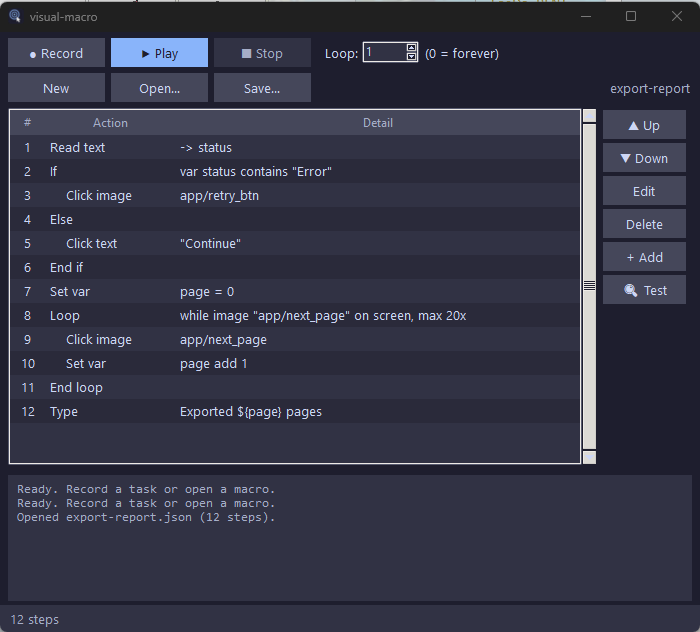
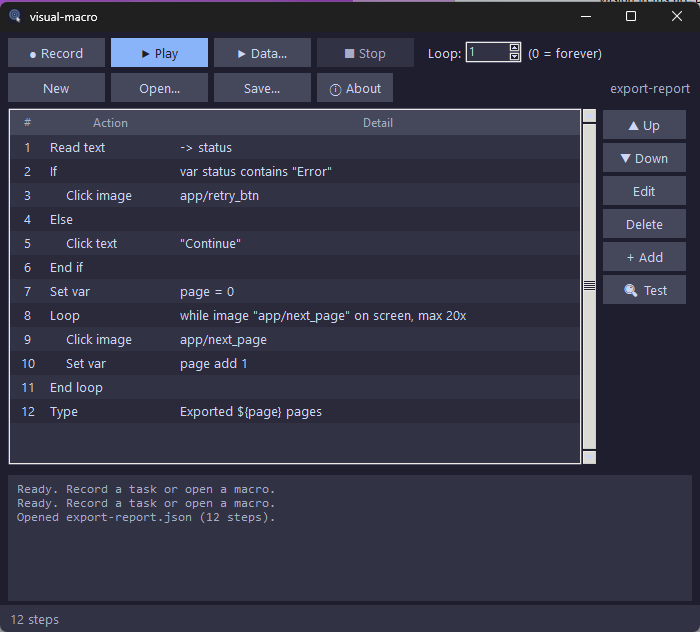
Add data-driven runs (run a macro per CSV row)
New '▶ Data…' button: pick a CSV and the macro runs once per row, with each
column seeded as a ${variable} (mail-merge style batch automation). Reuses the
existing variable substitution; vars are re-seeded fresh per row (no leakage);
F12 still aborts. engine.run() gains an initial_vars param.

Verified: headless test — 2 rows produce distinct typed output, missing column
resolves to empty; UI selftest OK; screenshot confirms the new button fits.

diff --git a/ui/app.py b/ui/app.py
@@ -272,14 +272,18 @@ class App(tk.Tk):
         self.btn_record = ttk.Button(bar, text="● Record", command=self.on_record)
         self.btn_play = ttk.Button(bar, text="▶ Play", command=self.on_play,
                                    style="Accent.TButton")
+        self.btn_data = ttk.Button(bar, text="▶ Data…", command=self.on_play_data)
         self.btn_stop = ttk.Button(bar, text="■ Stop", command=self.on_stop,
                                    state="disabled")
         self.btn_record.pack(side="left")
         self.btn_play.pack(side="left", padx=(6, 0))
+        self.btn_data.pack(side="left", padx=(6, 0))
         self.btn_stop.pack(side="left", padx=(6, 12))
         Tooltip(self.btn_record, "Do a task by hand once — it records the steps.\n"
                                  "Press F10 to stop recording.")
         Tooltip(self.btn_play, "Run the macro. Loop sets how many times.")
+        Tooltip(self.btn_data, "Run the macro once per row of a CSV.\n"
+                               "Each column becomes a ${variable} you can type.")
         Tooltip(self.btn_stop, "Stop a running macro (or press F12 anytime).")
 
         ttk.Label(bar, text="Loop:").pack(side="left")
@@ -581,6 +585,70 @@ class App(tk.Tk):
         self.btn_stop.configure(state="disabled")
         self.set_status(f"{len(self.steps)} steps")
 
+    def on_play_data(self) -> None:
+        """Run the macro once per row of a CSV; each column becomes a ${var}."""
+        if self._running or self._recording:
+            return
+        if not self.steps:
+            messagebox.showinfo("Nothing to play", "This macro has no steps yet.")
+            return
+        path = filedialog.askopenfilename(
+            title="Choose a CSV — one run per row, columns become ${variables}",
+            filetypes=[("CSV files", "*.csv"), ("All files", "*.*")])
+        if not path:
+            return
+        try:
+            import csv
+            with open(path, "r", encoding="utf-8-sig", newline="") as f:
+                rows = list(csv.DictReader(f))
+        except Exception as e:
+            messagebox.showerror("Could not read CSV", str(e))
+            return
+        if not rows:
+            messagebox.showinfo("Empty", "That CSV has no data rows.")
+            return
+        cols = ", ".join(f"${{{c}}}" for c in rows[0].keys() if c)
+        if not messagebox.askyesno(
+                "Run with data",
+                f"Run '{self.macro_name}' {len(rows)} times — once per row?\n\n"
+                f"Columns available as variables:\n{cols}\n\n"
+                "Make sure your target app is ready. F12 stops."):
+            return
+
+        try:
+            repeat = int(self.loop_var.get())
+        except ValueError:
+            repeat = 1
+        region = tuple(self.region) if self.region else None
+        step_dicts = self.steps
+
+        self.panic.clear()
+        self._running = True
+        self._set_busy(True)
+        self.btn_stop.configure(state="normal")
+        self.set_status(f"Playing data ×{len(rows)}…  (F12 or Stop to abort)")
+
+        def worker():
+            done = 0
+            try:
+                engine = Engine(assets_dir=ASSETS, panic=self.panic, log=self.log)
+                macro = Macro(name=self.macro_name,
+                              steps=[Step(**s) for s in step_dicts],
+                              repeat=repeat, region=region)
+                for i, row in enumerate(rows, 1):
+                    if self.panic.is_set():
+                        break
+                    self.log(f"[data] row {i}/{len(rows)}: {dict(row)}")
+                    engine.run(macro, initial_vars=row)
+                    done = i
+            except Exception as e:
+                self.post(lambda e=e: self.log(f"Data run error: {e}"))
+            finally:
+                self.post(lambda: self.log(f"[data] finished {done}/{len(rows)} rows."))
+                self.post(self._after_play)
+
+        threading.Thread(target=worker, daemon=True).start()
+
     def on_stop(self) -> None:
         if self._running:
             self.panic.set()
@@ -590,6 +658,7 @@ class App(tk.Tk):
         state = "disabled" if busy else "normal"
         self.btn_record.configure(state=state)
         self.btn_play.configure(state=state)
+        self.btn_data.configure(state=state)
 
     # -- edit operations ---------------------------------------------------
     def on_up(self) -> None:

diff --git a/core/engine.py b/core/engine.py
@@ -84,9 +84,11 @@ class Engine:
         self._step_no = 1
 
     # -- public ------------------------------------------------------------
-    def run(self, macro: Macro) -> bool:
+    def run(self, macro: Macro, initial_vars: dict | None = None) -> bool:
         self.log(f"[engine] running '{macro.name}' (capture={self.capture.backend})")
-        self._vars = {}  # fresh variables per run (persist across repeats)
+        # fresh variables per run (persist across repeats); a data-driven run
+        # seeds them from the current CSV row so ${column} substitutes per row
+        self._vars = {str(k): str(v) for k, v in (initial_vars or {}).items()}
         # Compile the flat if/else/end_if step list into nested blocks once.
         program, _ = self._parse(macro.steps, 0, set())
         loops = macro.repeat if macro.repeat > 0 else 1_000_000

diff --git a/README.md b/README.md
@@ -144,6 +144,24 @@ Editing a step opens a small dialog whose fields match the step type — no synt
 Fields that take a screen region have a **Pick ▢** button: drag a box on screen
 instead of typing pixel numbers.
 
+### Data-driven runs (▶ Data…)
+
+Run a macro **once per row of a CSV**, with each column exposed as a `${variable}`
+— batch/"mail-merge" automation. Click **▶ Data…**, pick a CSV, and confirm.
+
+Given `people.csv`:
+
+```csv
+name,email
+Alice,[email redacted]
+Bob,[email redacted]
+```
+
+a macro whose steps `type ${name}` and `type ${email}` runs twice, filling
+Alice's details, then Bob's. Great for filling a form from a spreadsheet,
+renaming files from a list, or any repeat-with-different-values task. Variables
+are re-seeded fresh each row (no leakage), and **F12** still stops everything.
+
 Prefer the command line? The recorder and player also run standalone — see below.
 
 ### Getting reliable clicks (avoiding the "wrong button")